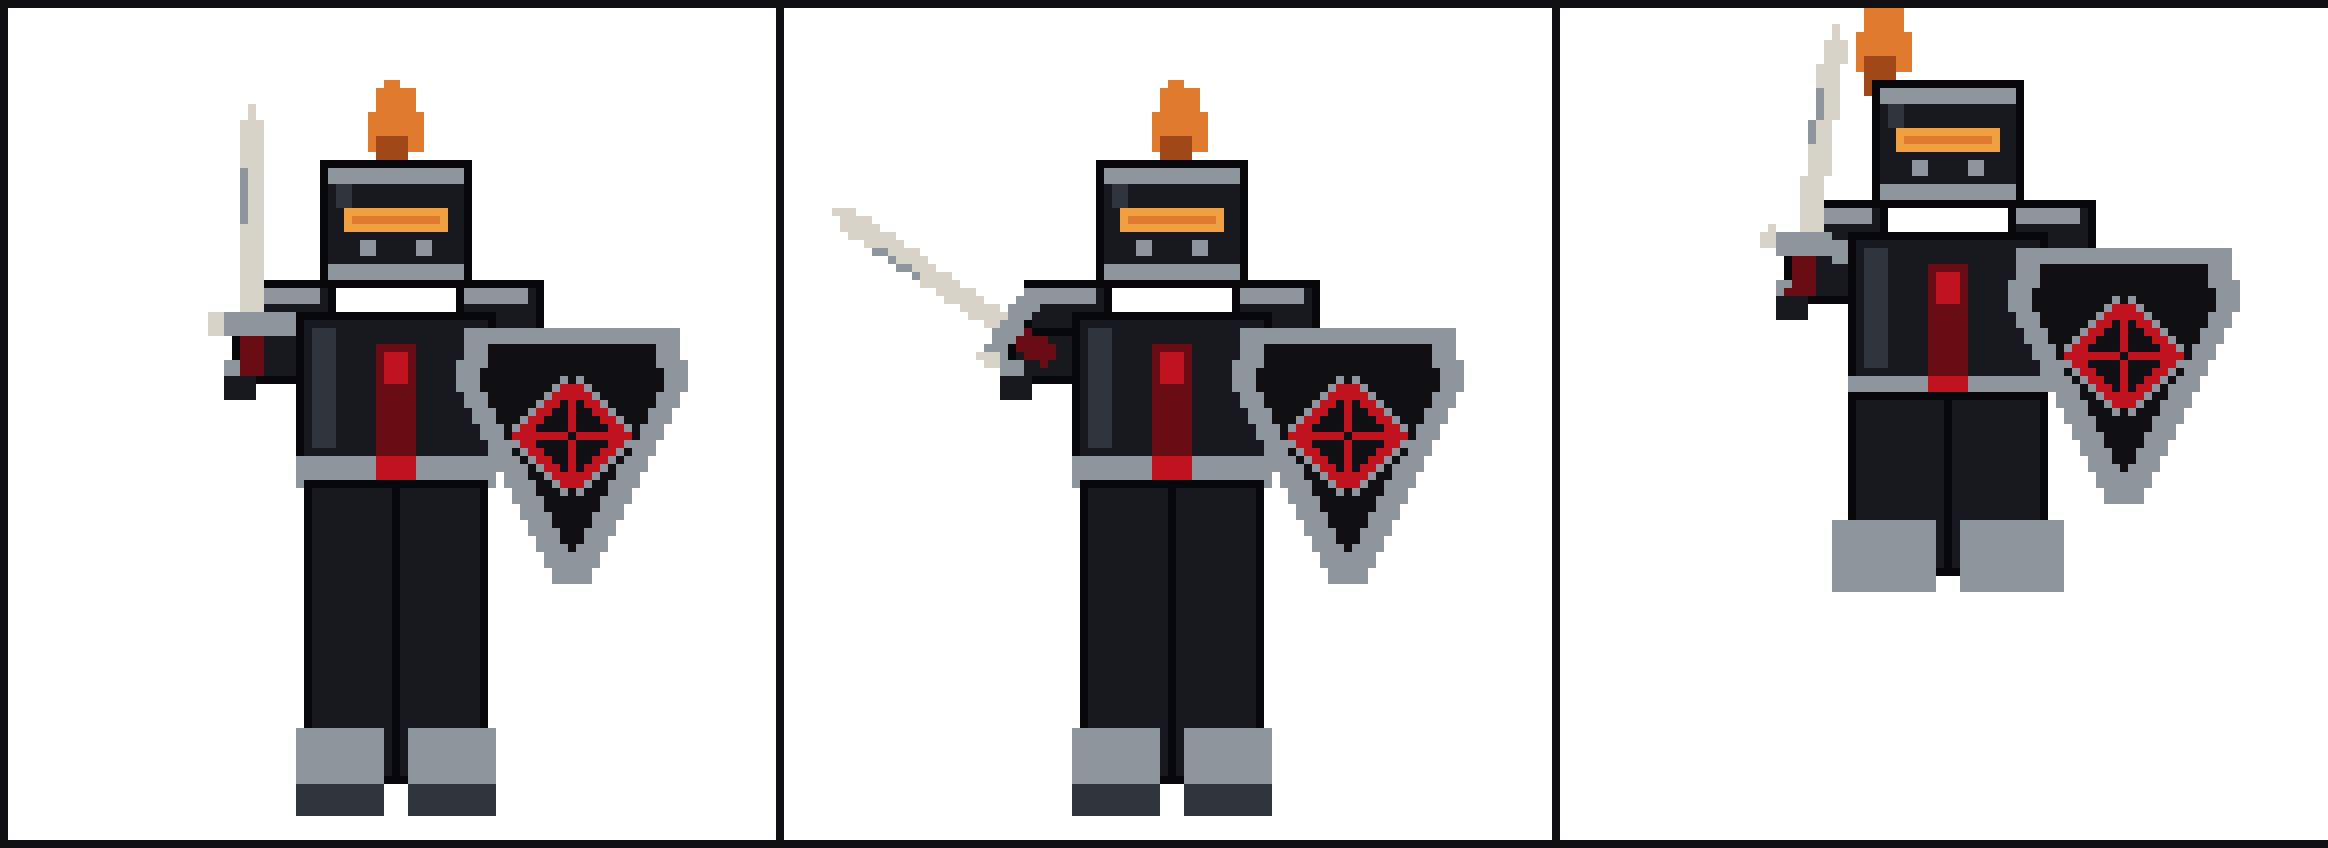
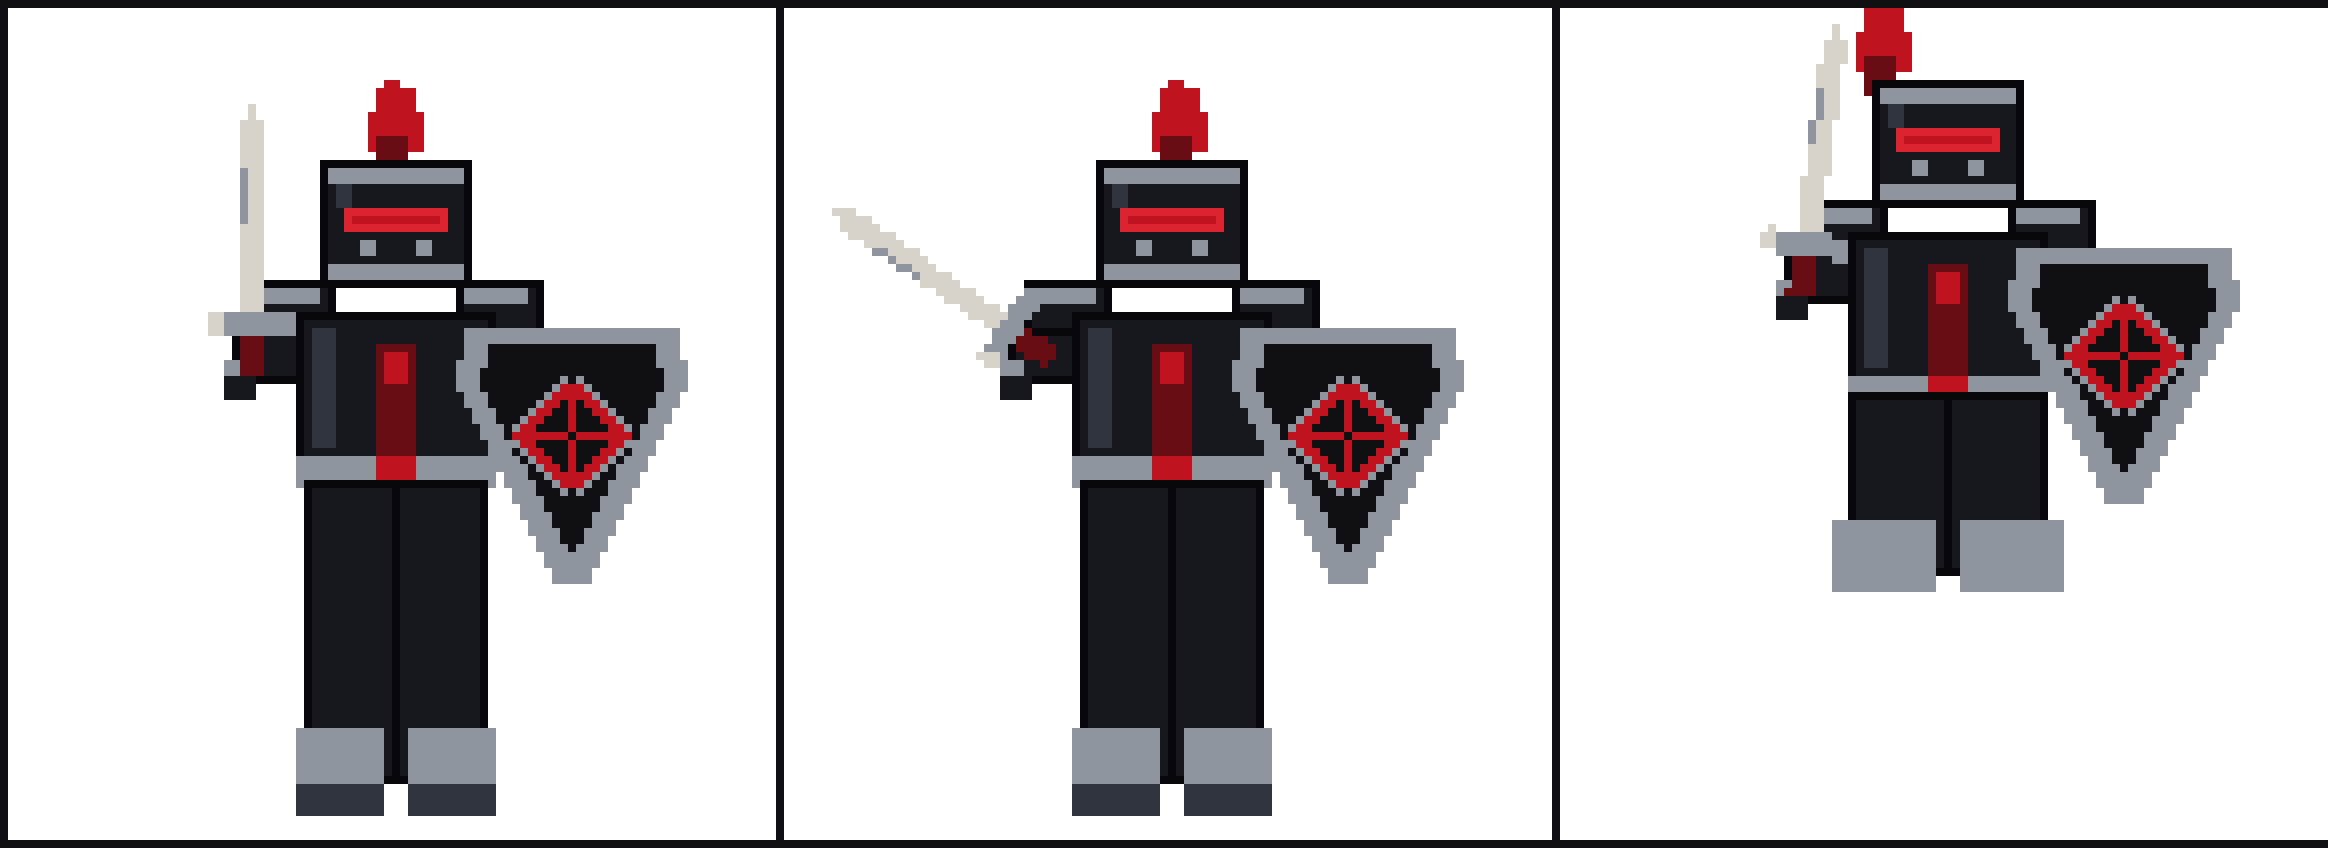
Blood the plume and the visor

diff --git a/gen_blackshield_knight.py b/gen_blackshield_knight.py
@@ -32,11 +32,11 @@ STEEL = (143, 149, 156, 255)
 BONE = (216, 211, 200, 255)
 BLOOD = (193, 18, 31, 255)
 BLOOD_DK = (106, 12, 20, 255)
-EMBER = (224, 122, 47, 255)
-EMBER_DK = (160, 72, 24, 255)
+EMBER = (193, 18, 31, 255)       # plume — same blood as the cross
+EMBER_DK = (106, 12, 20, 255)
 FIELD = (16, 16, 20, 255)
-VISOR = (240, 160, 64, 255)
-VISOR_DIM = (140, 72, 28, 255)
+VISOR = (220, 36, 48, 255)       # lit blood, not ember
+VISOR_DIM = (122, 14, 22, 255)
 
 
 def new():
@@ -167,7 +167,7 @@ def draw_sword(angle):
 def draw_body(plume_dx=0, visor="on", legs="stand", lean=0, stars=None):
     im = new()
     d = ImageDraw.Draw(im)
-    # plume — ember, not a flat rectangle
+    # plume — blood, same red as the cross
     px = 46 + plume_dx
     rect(d, px, 4, px + 4, 8, EMBER)
     rect(d, px - 1, 7, px + 5, 11, EMBER)
@@ -411,7 +411,7 @@ def write_pet(atlas):
     (HERMES_PET / "pet.json").write_text(json.dumps({
         "id": "blackshield-knight",
         "displayName": "Blackshield Knight",
-        "description": "Sworn knight of the obsidian watch. Black heater, iron cross, ember plume. Zero retreat.",
+        "description": "Sworn knight of the obsidian watch. Black heater, iron cross, blood plume. Zero retreat.",
         "spritesheetPath": "spritesheet.webp",
         "createdBy": "generator",
     }, indent=2) + "\n", encoding="utf-8")

diff --git a/README.md b/README.md
@@ -1,6 +1,6 @@
 # ⚫ Blackshield Knight — Sprite Atlas
 
-> *A sworn knight of the obsidian watch. Black heater, iron cross, ember plume, zero retreat.*
+> *A sworn knight of the obsidian watch. Black heater, iron cross, blood plume, zero retreat.*
 
 The **Blackshield Knight** is the standard-bearer of [Blackshield Company](https://github.com/Blackshield-Company) — the digital mercenary that stands between your data and the dark.
 
@@ -36,8 +36,7 @@ The **Blackshield Knight** is the standard-bearer of [Blackshield Company](https
 | `K` | `#1B1F28` | Armor black |
 | `S` | `#8FA3BD` | Steel rim |
 | `s` | `#DCE5F2` | Bright steel / blade |
-| `E` / `e` | `#E07A2F` / `#A04818` | Ember plume |
-| `R` / `r` | `#C1121F` / `#6A0C14` | Blood. The iron cross, and the tabard. |
+| `R` / `r` | `#C1121F` / `#6A0C14` | Blood. The iron cross, the plume, the visor, the tabard. |
 | `B` | `#101014` | Shield field |
 | `W` | `#F2F6FC` | Gleam white |
 
